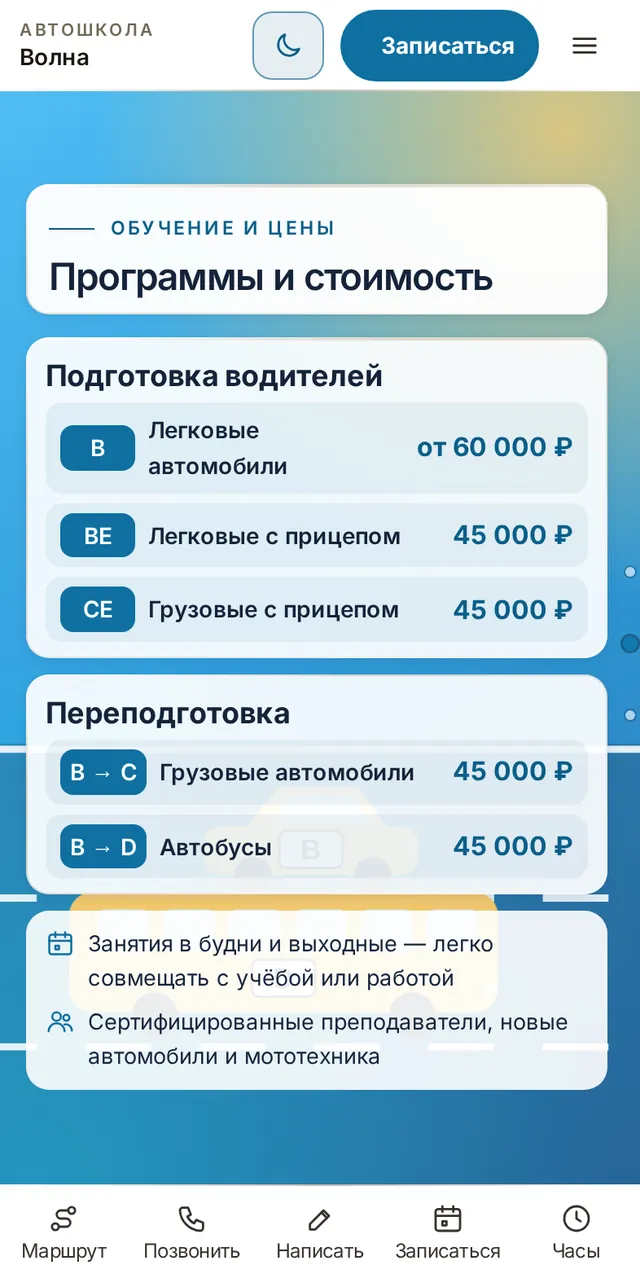
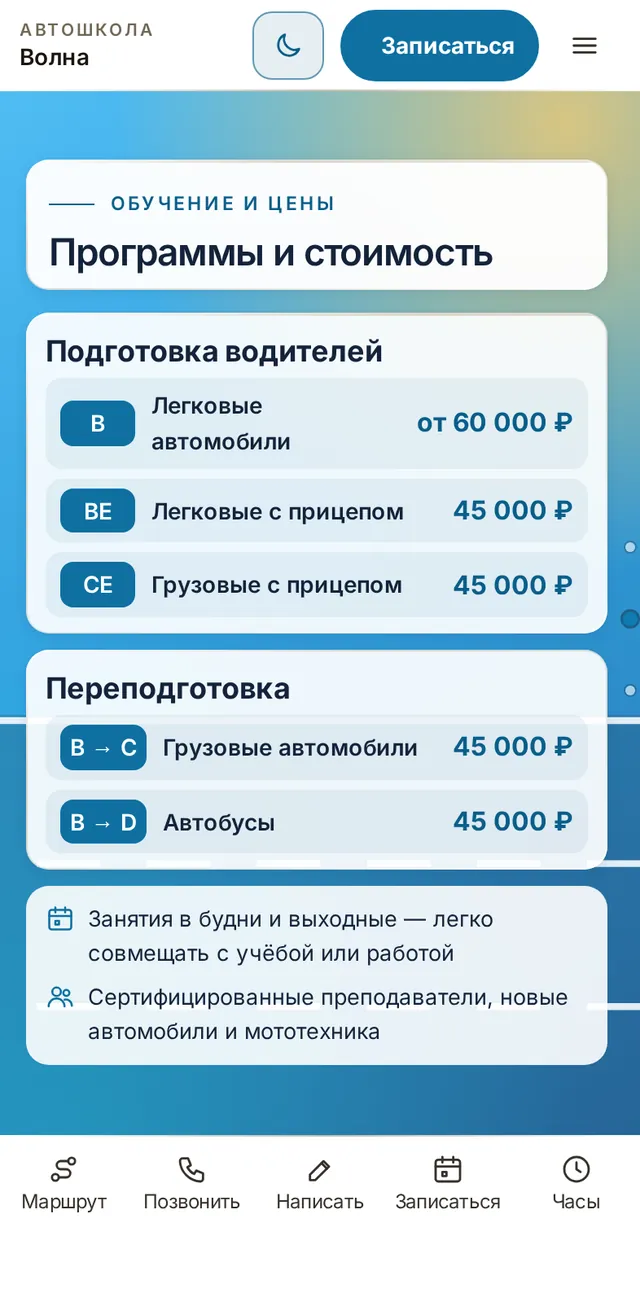
Текст не выходит за плашки: название первого экрана подгоняется под плашку, витрина показывает экраны целиком; цены на узких телефонах

diff --git a/vitrina/index.html b/vitrina/index.html
@@ -31,13 +31,14 @@ h1{text-wrap:balance;font-size:clamp(30px,3.4vw,48px);line-height:1.08;letter-sp
 .stage{position:relative;width:100%;aspect-ratio:16/11.2}
 .dv{position:absolute}
 .dv img{display:block;width:100%;height:100%;object-fit:cover;object-position:center top}
+.mon .scr img,.lap .scr img{height:auto}
 .mon{left:18%;top:0;width:68%}
-.mon .scr{aspect-ratio:16/9;padding:1.1%;background:#0e1116;border-radius:14px;box-shadow:0 30px 60px -20px rgba(20,35,58,.35)}
+.mon .scr{padding:1.1%;background:#0e1116;border-radius:14px;box-shadow:0 30px 60px -20px rgba(20,35,58,.35)}
 .mon .scr img{border-radius:6px}
 .mon .neck{width:14%;aspect-ratio:1/.95;margin:0 auto;background:linear-gradient(90deg,#c9d0d8,#eef1f4 45%,#c3cad2);clip-path:polygon(18% 0,82% 0,100% 100%,0 100%)}
 .mon .foot{width:36%;aspect-ratio:36/1.5;margin:-1px auto 0;border-radius:6px 6px 3px 3px;background:linear-gradient(180deg,#e9edf1,#b9c1ca);box-shadow:0 12px 20px -8px rgba(20,35,58,.4)}
 .lap{left:0;bottom:4%;width:46%}
-.lap .scr{aspect-ratio:16/10;padding:2.2% 2.2% 3%;background:#0b0d11;border-radius:16px 16px 4px 4px;position:relative;box-shadow:0 0 0 1px #2a2f37 inset}
+.lap .scr{padding:2.2% 2.2% 3%;background:#0b0d11;border-radius:16px 16px 4px 4px;position:relative;box-shadow:0 0 0 1px #2a2f37 inset}
 .lap .scr::before{content:"";position:absolute;top:1%;left:50%;width:.9%;aspect-ratio:1;border-radius:50%;background:#2b3442;transform:translateX(-50%)}
 .lap .scr img{border-radius:3px}
 .lap .base{position:relative;height:0;padding-bottom:3.2%;margin:0 -7%;background:linear-gradient(180deg,#e7ebef 0,#c8cfd7 60%,#9aa3ad 100%);border-radius:0 0 18px 18px/0 0 60% 60%;box-shadow:0 22px 30px -14px rgba(20,35,58,.45)}
@@ -80,7 +81,7 @@ h1{text-wrap:balance;font-size:clamp(30px,3.4vw,48px);line-height:1.08;letter-sp
   <div class="stage" id="stage" aria-label="Новый сайт на компьютере, ноутбуке и телефоне">
     <div class="dv mon"><div class="scr"><img src="img/monitor.webp?v=2" alt="" width="1600" height="900"></div><div class="neck"></div><div class="foot"></div></div>
     <div class="dv lap"><div class="scr"><img src="img/laptop.webp?v=2" alt="" width="1280" height="800"></div><div class="base"></div></div>
-    <div class="dv ph" id="ph"><div class="ss-phone z-phone" data-frame="pro" style="width: 340px; height: 714.953px; padding: 2.38318px; border-radius: 61.1682px; --ps: 0.794392523364486px;"><svg class="ss-phone__bands" width="100%" height="100%" aria-hidden="true"><defs><linearGradient id="ph-band" x1="0.2" y1="0" x2="0.8" y2="1"><stop offset="0" style="stop-color: var(--ss-phone-band-1);"></stop><stop offset="0.22" style="stop-color: var(--ss-phone-band-2);"></stop><stop offset="0.48" style="stop-color: var(--ss-phone-band-3);"></stop><stop offset="0.74" style="stop-color: var(--ss-phone-band-4);"></stop><stop offset="1" style="stop-color: var(--ss-phone-band-5);"></stop></linearGradient><linearGradient id="ph-clay" x1="0" y1="0" x2="0" y2="1"><stop offset="0" style="stop-color: var(--ss-phone-clay-top);"></stop><stop offset="1" style="stop-color: var(--ss-phone-clay-bottom);"></stop></linearGradient></defs><g transform="translate(10.327102803738317 10.327102803738317)" stroke-linejoin="round"><path d="M262.94 0.00L267.09 0.06L270.49 0.24L273.65 0.53L276.65 0.94L279.51 1.47L282.27 2.11L284.93 2.87L287.50 3.74L289.97 4.72L292.36 5.81L294.65 7.02L296.85 8.33L298.96 9.75L300.98 11.27L302.90 12.90L304.72 14.62L306.45 16.45L308.08 18.37L309.60 20.38L311.02 22.49L312.33 24.70L313.53 26.99L314.63 29.37L315.61 31.85L316.48 34.41L317.24 37.07L317.88 39.83L318.41 42.70L318.82 45.69L319.11 48.85L319.29 52.25L319.35 56.40L319.35 637.90L319.29 642.04L319.11 645.45L318.82 648.60L318.41 651.60L317.88 654.47L317.24 657.23L316.48 659.89L315.61 662.45L314.63 664.92L313.53 667.31L312.33 669.60L311.02 671.80L309.60 673.91L308.08 675.93L306.45 677.85L304.72 679.68L302.90 681.40L300.98 683.03L298.96 684.55L296.85 685.97L294.65 687.28L292.36 688.49L289.97 689.58L287.50 690.56L284.93 691.43L282.27 692.19L279.51 692.83L276.65 693.36L273.65 693.77L270.49 694.06L267.09 694.24L262.94 694.30L56.40 694.30L52.25 694.24L48.85 694.06L45.69 693.77L42.70 693.36L39.83 692.83L37.07 692.19L34.41 691.43L31.85 690.56L29.37 689.58L26.99 688.49L24.70 687.28L22.49 685.97L20.38 684.55L18.37 683.03L16.45 681.40L14.62 679.68L12.90 677.85L11.27 675.93L9.75 673.91L8.33 671.80L7.02 669.60L5.81 667.31L4.72 664.92L3.74 662.45L2.87 659.89L2.11 657.23L1.47 654.47L0.94 651.60L0.53 648.60L0.24 645.45L0.06 642.04L0.00 637.90L0.00 56.40L0.06 52.25L0.24 48.85L0.53 45.69L0.94 42.70L1.47 39.83L2.11 37.07L2.87 34.41L3.74 31.85L4.72 29.37L5.81 26.99L7.02 24.70L8.33 22.49L9.75 20.38L11.27 18.37L12.90 16.45L14.62 14.62L16.45 12.90L18.37 11.27L20.38 9.75L22.49 8.33L24.70 7.02L26.99 5.81L29.37 4.72L31.85 3.74L34.41 2.87L37.07 2.11L39.83 1.47L42.70 0.94L45.69 0.53L48.85 0.24L52.25 0.06L56.40 0.00Z" fill="none" stroke-width="20.654205607476634" stroke="url(#ph-band)"></path><path d="M262.94 0.00L267.09 0.06L270.49 0.24L273.65 0.53L276.65 0.94L279.51 1.47L282.27 2.11L284.93 2.87L287.50 3.74L289.97 4.72L292.36 5.81L294.65 7.02L296.85 8.33L298.96 9.75L300.98 11.27L302.90 12.90L304.72 14.62L306.45 16.45L308.08 18.37L309.60 20.38L311.02 22.49L312.33 24.70L313.53 26.99L314.63 29.37L315.61 31.85L316.48 34.41L317.24 37.07L317.88 39.83L318.41 42.70L318.82 45.69L319.11 48.85L319.29 52.25L319.35 56.40L319.35 637.90L319.29 642.04L319.11 645.45L318.82 648.60L318.41 651.60L317.88 654.47L317.24 657.23L316.48 659.89L315.61 662.45L314.63 664.92L313.53 667.31L312.33 669.60L311.02 671.80L309.60 673.91L308.08 675.93L306.45 677.85L304.72 679.68L302.90 681.40L300.98 683.03L298.96 684.55L296.85 685.97L294.65 687.28L292.36 688.49L289.97 689.58L287.50 690.56L284.93 691.43L282.27 692.19L279.51 692.83L276.65 693.36L273.65 693.77L270.49 694.06L267.09 694.24L262.94 694.30L56.40 694.30L52.25 694.24L48.85 694.06L45.69 693.77L42.70 693.36L39.83 692.83L37.07 692.19L34.41 691.43L31.85 690.56L29.37 689.58L26.99 688.49L24.70 687.28L22.49 685.97L20.38 684.55L18.37 683.03L16.45 681.40L14.62 679.68L12.90 677.85L11.27 675.93L9.75 673.91L8.33 671.80L7.02 669.60L5.81 667.31L4.72 664.92L3.74 662.45L2.87 659.89L2.11 657.23L1.47 654.47L0.94 651.60L0.53 648.60L0.24 645.45L0.06 642.04L0.00 637.90L0.00 56.40L0.06 52.25L0.24 48.85L0.53 45.69L0.94 42.70L1.47 39.83L2.11 37.07L2.87 34.41L3.74 31.85L4.72 29.37L5.81 26.99L7.02 24.70L8.33 22.49L9.75 20.38L11.27 18.37L12.90 16.45L14.62 14.62L16.45 12.90L18.37 11.27L20.38 9.75L22.49 8.33L24.70 7.02L26.99 5.81L29.37 4.72L31.85 3.74L34.41 2.87L37.07 2.11L39.83 1.47L42.70 0.94L45.69 0.53L48.85 0.24L52.25 0.06L56.40 0.00Z" fill="none" stroke-width="15.88785046728972" style="stroke: var(--ss-phone-rim);"></path><path d="M262.94 0.00L267.09 0.06L270.49 0.24L273.65 0.53L276.65 0.94L279.51 1.47L282.27 2.11L284.93 2.87L287.50 3.74L289.97 4.72L292.36 5.81L294.65 7.02L296.85 8.33L298.96 9.75L300.98 11.27L302.90 12.90L304.72 14.62L306.45 16.45L308.08 18.37L309.60 20.38L311.02 22.49L312.33 24.70L313.53 26.99L314.63 29.37L315.61 31.85L316.48 34.41L317.24 37.07L317.88 39.83L318.41 42.70L318.82 45.69L319.11 48.85L319.29 52.25L319.35 56.40L319.35 637.90L319.29 642.04L319.11 645.45L318.82 648.60L318.41 651.60L317.88 654.47L317.24 657.23L316.48 659.89L315.61 662.45L314.63 664.92L313.53 667.31L312.33 669.60L311.02 671.80L309.60 673.91L308.08 675.93L306.45 677.85L304.72 679.68L302.90 681.40L300.98 683.03L298.96 684.55L296.85 685.97L294.65 687.28L292.36 688.49L289.97 689.58L287.50 690.56L284.93 691.43L282.27 692.19L279.51 692.83L276.65 693.36L273.65 693.77L270.49 694.06L267.09 694.24L262.94 694.30L56.40 694.30L52.25 694.24L48.85 694.06L45.69 693.77L42.70 693.36L39.83 692.83L37.07 692.19L34.41 691.43L31.85 690.56L29.37 689.58L26.99 688.49L24.70 687.28L22.49 685.97L20.38 684.55L18.37 683.03L16.45 681.40L14.62 679.68L12.90 677.85L11.27 675.93L9.75 673.91L8.33 671.80L7.02 669.60L5.81 667.31L4.72 664.92L3.74 662.45L2.87 659.89L2.11 657.23L1.47 654.47L0.94 651.60L0.53 648.60L0.24 645.45L0.06 642.04L0.00 637.90L0.00 56.40L0.06 52.25L0.24 48.85L0.53 45.69L0.94 42.70L1.47 39.83L2.11 37.07L2.87 34.41L3.74 31.85L4.72 29.37L5.81 26.99L7.02 24.70L8.33 22.49L9.75 20.38L11.27 18.37L12.90 16.45L14.62 14.62L16.45 12.90L18.37 11.27L20.38 9.75L22.49 8.33L24.70 7.02L26.99 5.81L29.37 4.72L31.85 3.74L34.41 2.87L37.07 2.11L39.83 1.47L42.70 0.94L45.69 0.53L48.85 0.24L52.25 0.06L56.40 0.00Z" fill="none" stroke-width="14.69626168224299" style="stroke: var(--ss-phone-glass);"></path></g></svg><div class="ss-phone__glass" style="padding: 7.94393px; border-radius: 58.785px;"><div class="ss-phone__window" style="width: 319.346px; height: 694.299px; clip-path: path(&quot;M 262.94 0 L 267.09 0.06 L 270.49 0.24 L 273.65 0.53 L 276.65 0.94 L 279.51 1.47 L 282.27 2.11 L 284.93 2.87 L 287.5 3.74 L 289.97 4.72 L 292.36 5.81 L 294.65 7.02 L 296.85 8.33 L 298.96 9.75 L 300.98 11.27 L 302.9 12.9 L 304.72 14.62 L 306.45 16.45 L 308.08 18.37 L 309.6 20.38 L 311.02 22.49 L 312.33 24.7 L 313.53 26.99 L 314.63 29.37 L 315.61 31.85 L 316.48 34.41 L 317.24 37.07 L 317.88 39.83 L 318.41 42.7 L 318.82 45.69 L 319.11 48.85 L 319.29 52.25 L 319.35 56.4 L 319.35 637.9 L 319.29 642.04 L 319.11 645.45 L 318.82 648.6 L 318.41 651.6 L 317.88 654.47 L 317.24 657.23 L 316.48 659.89 L 315.61 662.45 L 314.63 664.92 L 313.53 667.31 L 312.33 669.6 L 311.02 671.8 L 309.6 673.91 L 308.08 675.93 L 306.45 677.85 L 304.72 679.68 L 302.9 681.4 L 300.98 683.03 L 298.96 684.55 L 296.85 685.97 L 294.65 687.28 L 292.36 688.49 L 289.97 689.58 L 287.5 690.56 L 284.93 691.43 L 282.27 692.19 L 279.51 692.83 L 276.65 693.36 L 273.65 693.77 L 270.49 694.06 L 267.09 694.24 L 262.94 694.3 L 56.4 694.3 L 52.25 694.24 L 48.85 694.06 L 45.69 693.77 L 42.7 693.36 L 39.83 692.83 L 37.07 692.19 L 34.41 691.43 L 31.85 690.56 L 29.37 689.58 L 26.99 688.49 L 24.7 687.28 L 22.49 685.97 L 20.38 684.55 L 18.37 683.03 L 16.45 681.4 L 14.62 679.68 L 12.9 677.85 L 11.27 675.93 L 9.75 673.91 L 8.33 671.8 L 7.02 669.6 L 5.81 667.31 L 4.72 664.92 L 3.74 662.45 L 2.87 659.89 L 2.11 657.23 L 1.47 654.47 L 0.94 651.6 L 0.53 648.6 L 0.24 645.45 L 0.06 642.04 L 0 637.9 L 0 56.4 L 0.06 52.25 L 0.24 48.85 L 0.53 45.69 L 0.94 42.7 L 1.47 39.83 L 2.11 37.07 L 2.87 34.41 L 3.74 31.85 L 4.72 29.37 L 5.81 26.99 L 7.02 24.7 L 8.33 22.49 L 9.75 20.38 L 11.27 18.37 L 12.9 16.45 L 14.62 14.62 L 16.45 12.9 L 18.37 11.27 L 20.38 9.75 L 22.49 8.33 L 24.7 7.02 L 26.99 5.81 L 29.37 4.72 L 31.85 3.74 L 34.41 2.87 L 37.07 2.11 L 39.83 1.47 L 42.7 0.94 L 45.69 0.53 L 48.85 0.24 L 52.25 0.06 L 56.4 0 Z&quot;);"><div class="ss-phone__screen" style="width: 402px; height: 874px; transform: scale(0.794393); --ss-screen-r: 64px;"><div class="ss-phone__status"><span class="ss-phone__time">10:02</span><span class="ss-phone__glyphs"><svg viewBox="0 0 20.33 13.67" width="20.33" height="13.67" class="ss-phone__glyph ss-phone__signal"><rect x="0" y="7.34" width="3.333" height="6.33" rx="1.667" fill="currentColor"></rect><rect x="5.667" y="5" width="3.333" height="8.67" rx="1.667" fill="currentColor"></rect><rect x="11.334" y="2.67" width="3.333" height="11" rx="1.667" fill="currentColor"></rect><rect x="17.000999999999998" y="0" width="3.333" height="13.67" rx="1.667" fill="currentColor"></rect></svg><svg viewBox="0 0 19.33 14.33" width="19.33" height="14.33" class="ss-phone__glyph ss-phone__wifi"><path fill-rule="evenodd" fill="currentColor" d="M0.415933 5.54283C0.902185 6.04412 1.66017 5.95818 2.27513 5.41393C4.30595 3.58064 6.83731 2.63535 9.66901 2.63535C12.5007 2.63535 15.0464 3.60928 17.0629 5.41393C17.6636 5.97251 18.4215 6.0298 18.9221 5.54283C19.4226 5.02722 19.4942 4.2538 18.9793 3.70954C16.8341 1.51819 13.3302 0 9.66901 0C6.00783 0 2.48965 1.53251 0.358727 3.72387C-0.156127 4.2538 -0.0989213 5.02722 0.415933 5.55715L0.415933 5.54283ZM3.94841 9.13779C4.50617 9.68205 5.22124 9.62476 5.85051 9.10915C6.88022 8.29276 8.25316 7.73418 9.66901 7.7485C11.0706 7.7485 12.4435 8.29276 13.4875 9.12347C14.1168 9.63908 14.8605 9.66773 15.4039 9.12347C15.9331 8.57921 16.0189 7.7485 15.4611 7.23289C14.0739 5.98683 11.9859 5.11315 9.68332 5.11315C7.38077 5.11315 5.27845 5.98683 3.9055 7.23289C3.41925 7.69121 3.31914 8.47896 3.96271 9.13779L3.94841 9.13779ZM8.72511 13.8929C9.34008 14.4801 9.98365 14.4801 10.5986 13.8929L11.757 12.7757C12.372 12.1742 12.5007 11.4151 11.7999 10.8995C11.2136 10.4841 10.4699 10.212 9.66901 10.212C8.86813 10.212 8.11015 10.4841 7.53809 10.9138C6.83731 11.4151 6.98033 12.1885 7.59529 12.7757L8.73942 13.8929L8.72511 13.8929Z"></path></svg><svg viewBox="0 0 29.33 13.67" width="29.33" height="13.67" class="ss-phone__glyph ss-phone__battery"><path fill="currentColor" d="M0 6.4C0 4.15979 0 3.03969 0.435974 2.18404C0.819467 1.43139 1.43139 0.819467 2.18404 0.435974C3.03969 0 4.15979 0 6.4 0L19.933 0C22.1732 0 23.2933 0 24.149 0.435974C24.9016 0.819467 25.5135 1.43139 25.897 2.18404C26.333 3.03969 26.333 4.15979 26.333 6.4L26.333 7.26666C26.333 9.50687 26.333 10.627 25.897 11.4826C25.5135 12.2353 24.9016 12.8472 24.149 13.2307C23.2933 13.6667 22.1732 13.6667 19.933 13.6667L6.4 13.6667C4.15979 13.6667 3.03969 13.6667 2.18404 13.2307C1.43139 12.8472 0.819467 12.2353 0.435974 11.4826C0 10.627 0 9.50687 0 7.26666L0 6.4Z"></path><path fill-rule="evenodd" fill="currentColor" transform="translate(27.33 4.33)" d="M0 0L0 5C0.601505 4.8625 2 3.75 2 2.5C2 1.25 0.601505 0.1375 0 0Z"></path></svg></span></div><span class="ss-phone__island"></span><div class="ss-phone__content" data-status="true"><img class="ph-shot" src="img/phone.webp?v=2" alt="Новый сайт автошколы «Волна» на телефоне" width="393" height="790"></div><span class="ss-phone__home"></span></div></div></div></div></div>
+    <div class="dv ph" id="ph"><div class="ss-phone z-phone" data-frame="pro" style="width: 340px; height: 714.953px; padding: 2.38318px; border-radius: 61.1682px; --ps: 0.794392523364486px;"><svg class="ss-phone__bands" width="100%" height="100%" aria-hidden="true"><defs><linearGradient id="ph-band" x1="0.2" y1="0" x2="0.8" y2="1"><stop offset="0" style="stop-color: var(--ss-phone-band-1);"></stop><stop offset="0.22" style="stop-color: var(--ss-phone-band-2);"></stop><stop offset="0.48" style="stop-color: var(--ss-phone-band-3);"></stop><stop offset="0.74" style="stop-color: var(--ss-phone-band-4);"></stop><stop offset="1" style="stop-color: var(--ss-phone-band-5);"></stop></linearGradient><linearGradient id="ph-clay" x1="0" y1="0" x2="0" y2="1"><stop offset="0" style="stop-color: var(--ss-phone-clay-top);"></stop><stop offset="1" style="stop-color: var(--ss-phone-clay-bottom);"></stop></linearGradient></defs><g transform="translate(10.327102803738317 10.327102803738317)" stroke-linejoin="round"><path d="M262.94 0.00L267.09 0.06L270.49 0.24L273.65 0.53L276.65 0.94L279.51 1.47L282.27 2.11L284.93 2.87L287.50 3.74L289.97 4.72L292.36 5.81L294.65 7.02L296.85 8.33L298.96 9.75L300.98 11.27L302.90 12.90L304.72 14.62L306.45 16.45L308.08 18.37L309.60 20.38L311.02 22.49L312.33 24.70L313.53 26.99L314.63 29.37L315.61 31.85L316.48 34.41L317.24 37.07L317.88 39.83L318.41 42.70L318.82 45.69L319.11 48.85L319.29 52.25L319.35 56.40L319.35 637.90L319.29 642.04L319.11 645.45L318.82 648.60L318.41 651.60L317.88 654.47L317.24 657.23L316.48 659.89L315.61 662.45L314.63 664.92L313.53 667.31L312.33 669.60L311.02 671.80L309.60 673.91L308.08 675.93L306.45 677.85L304.72 679.68L302.90 681.40L300.98 683.03L298.96 684.55L296.85 685.97L294.65 687.28L292.36 688.49L289.97 689.58L287.50 690.56L284.93 691.43L282.27 692.19L279.51 692.83L276.65 693.36L273.65 693.77L270.49 694.06L267.09 694.24L262.94 694.30L56.40 694.30L52.25 694.24L48.85 694.06L45.69 693.77L42.70 693.36L39.83 692.83L37.07 692.19L34.41 691.43L31.85 690.56L29.37 689.58L26.99 688.49L24.70 687.28L22.49 685.97L20.38 684.55L18.37 683.03L16.45 681.40L14.62 679.68L12.90 677.85L11.27 675.93L9.75 673.91L8.33 671.80L7.02 669.60L5.81 667.31L4.72 664.92L3.74 662.45L2.87 659.89L2.11 657.23L1.47 654.47L0.94 651.60L0.53 648.60L0.24 645.45L0.06 642.04L0.00 637.90L0.00 56.40L0.06 52.25L0.24 48.85L0.53 45.69L0.94 42.70L1.47 39.83L2.11 37.07L2.87 34.41L3.74 31.85L4.72 29.37L5.81 26.99L7.02 24.70L8.33 22.49L9.75 20.38L11.27 18.37L12.90 16.45L14.62 14.62L16.45 12.90L18.37 11.27L20.38 9.75L22.49 8.33L24.70 7.02L26.99 5.81L29.37 4.72L31.85 3.74L34.41 2.87L37.07 2.11L39.83 1.47L42.70 0.94L45.69 0.53L48.85 0.24L52.25 0.06L56.40 0.00Z" fill="none" stroke-width="20.654205607476634" stroke="url(#ph-band)"></path><path d="M262.94 0.00L267.09 0.06L270.49 0.24L273.65 0.53L276.65 0.94L279.51 1.47L282.27 2.11L284.93 2.87L287.50 3.74L289.97 4.72L292.36 5.81L294.65 7.02L296.85 8.33L298.96 9.75L300.98 11.27L302.90 12.90L304.72 14.62L306.45 16.45L308.08 18.37L309.60 20.38L311.02 22.49L312.33 24.70L313.53 26.99L314.63 29.37L315.61 31.85L316.48 34.41L317.24 37.07L317.88 39.83L318.41 42.70L318.82 45.69L319.11 48.85L319.29 52.25L319.35 56.40L319.35 637.90L319.29 642.04L319.11 645.45L318.82 648.60L318.41 651.60L317.88 654.47L317.24 657.23L316.48 659.89L315.61 662.45L314.63 664.92L313.53 667.31L312.33 669.60L311.02 671.80L309.60 673.91L308.08 675.93L306.45 677.85L304.72 679.68L302.90 681.40L300.98 683.03L298.96 684.55L296.85 685.97L294.65 687.28L292.36 688.49L289.97 689.58L287.50 690.56L284.93 691.43L282.27 692.19L279.51 692.83L276.65 693.36L273.65 693.77L270.49 694.06L267.09 694.24L262.94 694.30L56.40 694.30L52.25 694.24L48.85 694.06L45.69 693.77L42.70 693.36L39.83 692.83L37.07 692.19L34.41 691.43L31.85 690.56L29.37 689.58L26.99 688.49L24.70 687.28L22.49 685.97L20.38 684.55L18.37 683.03L16.45 681.40L14.62 679.68L12.90 677.85L11.27 675.93L9.75 673.91L8.33 671.80L7.02 669.60L5.81 667.31L4.72 664.92L3.74 662.45L2.87 659.89L2.11 657.23L1.47 654.47L0.94 651.60L0.53 648.60L0.24 645.45L0.06 642.04L0.00 637.90L0.00 56.40L0.06 52.25L0.24 48.85L0.53 45.69L0.94 42.70L1.47 39.83L2.11 37.07L2.87 34.41L3.74 31.85L4.72 29.37L5.81 26.99L7.02 24.70L8.33 22.49L9.75 20.38L11.27 18.37L12.90 16.45L14.62 14.62L16.45 12.90L18.37 11.27L20.38 9.75L22.49 8.33L24.70 7.02L26.99 5.81L29.37 4.72L31.85 3.74L34.41 2.87L37.07 2.11L39.83 1.47L42.70 0.94L45.69 0.53L48.85 0.24L52.25 0.06L56.40 0.00Z" fill="none" stroke-width="15.88785046728972" style="stroke: var(--ss-phone-rim);"></path><path d="M262.94 0.00L267.09 0.06L270.49 0.24L273.65 0.53L276.65 0.94L279.51 1.47L282.27 2.11L284.93 2.87L287.50 3.74L289.97 4.72L292.36 5.81L294.65 7.02L296.85 8.33L298.96 9.75L300.98 11.27L302.90 12.90L304.72 14.62L306.45 16.45L308.08 18.37L309.60 20.38L311.02 22.49L312.33 24.70L313.53 26.99L314.63 29.37L315.61 31.85L316.48 34.41L317.24 37.07L317.88 39.83L318.41 42.70L318.82 45.69L319.11 48.85L319.29 52.25L319.35 56.40L319.35 637.90L319.29 642.04L319.11 645.45L318.82 648.60L318.41 651.60L317.88 654.47L317.24 657.23L316.48 659.89L315.61 662.45L314.63 664.92L313.53 667.31L312.33 669.60L311.02 671.80L309.60 673.91L308.08 675.93L306.45 677.85L304.72 679.68L302.90 681.40L300.98 683.03L298.96 684.55L296.85 685.97L294.65 687.28L292.36 688.49L289.97 689.58L287.50 690.56L284.93 691.43L282.27 692.19L279.51 692.83L276.65 693.36L273.65 693.77L270.49 694.06L267.09 694.24L262.94 694.30L56.40 694.30L52.25 694.24L48.85 694.06L45.69 693.77L42.70 693.36L39.83 692.83L37.07 692.19L34.41 691.43L31.85 690.56L29.37 689.58L26.99 688.49L24.70 687.28L22.49 685.97L20.38 684.55L18.37 683.03L16.45 681.40L14.62 679.68L12.90 677.85L11.27 675.93L9.75 673.91L8.33 671.80L7.02 669.60L5.81 667.31L4.72 664.92L3.74 662.45L2.87 659.89L2.11 657.23L1.47 654.47L0.94 651.60L0.53 648.60L0.24 645.45L0.06 642.04L0.00 637.90L0.00 56.40L0.06 52.25L0.24 48.85L0.53 45.69L0.94 42.70L1.47 39.83L2.11 37.07L2.87 34.41L3.74 31.85L4.72 29.37L5.81 26.99L7.02 24.70L8.33 22.49L9.75 20.38L11.27 18.37L12.90 16.45L14.62 14.62L16.45 12.90L18.37 11.27L20.38 9.75L22.49 8.33L24.70 7.02L26.99 5.81L29.37 4.72L31.85 3.74L34.41 2.87L37.07 2.11L39.83 1.47L42.70 0.94L45.69 0.53L48.85 0.24L52.25 0.06L56.40 0.00Z" fill="none" stroke-width="14.69626168224299" style="stroke: var(--ss-phone-glass);"></path></g></svg><div class="ss-phone__glass" style="padding: 7.94393px; border-radius: 58.785px;"><div class="ss-phone__window" style="width: 319.346px; height: 694.299px; clip-path: path(&quot;M 262.94 0 L 267.09 0.06 L 270.49 0.24 L 273.65 0.53 L 276.65 0.94 L 279.51 1.47 L 282.27 2.11 L 284.93 2.87 L 287.5 3.74 L 289.97 4.72 L 292.36 5.81 L 294.65 7.02 L 296.85 8.33 L 298.96 9.75 L 300.98 11.27 L 302.9 12.9 L 304.72 14.62 L 306.45 16.45 L 308.08 18.37 L 309.6 20.38 L 311.02 22.49 L 312.33 24.7 L 313.53 26.99 L 314.63 29.37 L 315.61 31.85 L 316.48 34.41 L 317.24 37.07 L 317.88 39.83 L 318.41 42.7 L 318.82 45.69 L 319.11 48.85 L 319.29 52.25 L 319.35 56.4 L 319.35 637.9 L 319.29 642.04 L 319.11 645.45 L 318.82 648.6 L 318.41 651.6 L 317.88 654.47 L 317.24 657.23 L 316.48 659.89 L 315.61 662.45 L 314.63 664.92 L 313.53 667.31 L 312.33 669.6 L 311.02 671.8 L 309.6 673.91 L 308.08 675.93 L 306.45 677.85 L 304.72 679.68 L 302.9 681.4 L 300.98 683.03 L 298.96 684.55 L 296.85 685.97 L 294.65 687.28 L 292.36 688.49 L 289.97 689.58 L 287.5 690.56 L 284.93 691.43 L 282.27 692.19 L 279.51 692.83 L 276.65 693.36 L 273.65 693.77 L 270.49 694.06 L 267.09 694.24 L 262.94 694.3 L 56.4 694.3 L 52.25 694.24 L 48.85 694.06 L 45.69 693.77 L 42.7 693.36 L 39.83 692.83 L 37.07 692.19 L 34.41 691.43 L 31.85 690.56 L 29.37 689.58 L 26.99 688.49 L 24.7 687.28 L 22.49 685.97 L 20.38 684.55 L 18.37 683.03 L 16.45 681.4 L 14.62 679.68 L 12.9 677.85 L 11.27 675.93 L 9.75 673.91 L 8.33 671.8 L 7.02 669.6 L 5.81 667.31 L 4.72 664.92 L 3.74 662.45 L 2.87 659.89 L 2.11 657.23 L 1.47 654.47 L 0.94 651.6 L 0.53 648.6 L 0.24 645.45 L 0.06 642.04 L 0 637.9 L 0 56.4 L 0.06 52.25 L 0.24 48.85 L 0.53 45.69 L 0.94 42.7 L 1.47 39.83 L 2.11 37.07 L 2.87 34.41 L 3.74 31.85 L 4.72 29.37 L 5.81 26.99 L 7.02 24.7 L 8.33 22.49 L 9.75 20.38 L 11.27 18.37 L 12.9 16.45 L 14.62 14.62 L 16.45 12.9 L 18.37 11.27 L 20.38 9.75 L 22.49 8.33 L 24.7 7.02 L 26.99 5.81 L 29.37 4.72 L 31.85 3.74 L 34.41 2.87 L 37.07 2.11 L 39.83 1.47 L 42.7 0.94 L 45.69 0.53 L 48.85 0.24 L 52.25 0.06 L 56.4 0 Z&quot;);"><div class="ss-phone__screen" style="width: 402px; height: 874px; transform: scale(0.794393); --ss-screen-r: 64px;"><div class="ss-phone__status"><span class="ss-phone__time">10:02</span><span class="ss-phone__glyphs"><svg viewBox="0 0 20.33 13.67" width="20.33" height="13.67" class="ss-phone__glyph ss-phone__signal"><rect x="0" y="7.34" width="3.333" height="6.33" rx="1.667" fill="currentColor"></rect><rect x="5.667" y="5" width="3.333" height="8.67" rx="1.667" fill="currentColor"></rect><rect x="11.334" y="2.67" width="3.333" height="11" rx="1.667" fill="currentColor"></rect><rect x="17.000999999999998" y="0" width="3.333" height="13.67" rx="1.667" fill="currentColor"></rect></svg><svg viewBox="0 0 19.33 14.33" width="19.33" height="14.33" class="ss-phone__glyph ss-phone__wifi"><path fill-rule="evenodd" fill="currentColor" d="M0.415933 5.54283C0.902185 6.04412 1.66017 5.95818 2.27513 5.41393C4.30595 3.58064 6.83731 2.63535 9.66901 2.63535C12.5007 2.63535 15.0464 3.60928 17.0629 5.41393C17.6636 5.97251 18.4215 6.0298 18.9221 5.54283C19.4226 5.02722 19.4942 4.2538 18.9793 3.70954C16.8341 1.51819 13.3302 0 9.66901 0C6.00783 0 2.48965 1.53251 0.358727 3.72387C-0.156127 4.2538 -0.0989213 5.02722 0.415933 5.55715L0.415933 5.54283ZM3.94841 9.13779C4.50617 9.68205 5.22124 9.62476 5.85051 9.10915C6.88022 8.29276 8.25316 7.73418 9.66901 7.7485C11.0706 7.7485 12.4435 8.29276 13.4875 9.12347C14.1168 9.63908 14.8605 9.66773 15.4039 9.12347C15.9331 8.57921 16.0189 7.7485 15.4611 7.23289C14.0739 5.98683 11.9859 5.11315 9.68332 5.11315C7.38077 5.11315 5.27845 5.98683 3.9055 7.23289C3.41925 7.69121 3.31914 8.47896 3.96271 9.13779L3.94841 9.13779ZM8.72511 13.8929C9.34008 14.4801 9.98365 14.4801 10.5986 13.8929L11.757 12.7757C12.372 12.1742 12.5007 11.4151 11.7999 10.8995C11.2136 10.4841 10.4699 10.212 9.66901 10.212C8.86813 10.212 8.11015 10.4841 7.53809 10.9138C6.83731 11.4151 6.98033 12.1885 7.59529 12.7757L8.73942 13.8929L8.72511 13.8929Z"></path></svg><svg viewBox="0 0 29.33 13.67" width="29.33" height="13.67" class="ss-phone__glyph ss-phone__battery"><path fill="currentColor" d="M0 6.4C0 4.15979 0 3.03969 0.435974 2.18404C0.819467 1.43139 1.43139 0.819467 2.18404 0.435974C3.03969 0 4.15979 0 6.4 0L19.933 0C22.1732 0 23.2933 0 24.149 0.435974C24.9016 0.819467 25.5135 1.43139 25.897 2.18404C26.333 3.03969 26.333 4.15979 26.333 6.4L26.333 7.26666C26.333 9.50687 26.333 10.627 25.897 11.4826C25.5135 12.2353 24.9016 12.8472 24.149 13.2307C23.2933 13.6667 22.1732 13.6667 19.933 13.6667L6.4 13.6667C4.15979 13.6667 3.03969 13.6667 2.18404 13.2307C1.43139 12.8472 0.819467 12.2353 0.435974 11.4826C0 10.627 0 9.50687 0 7.26666L0 6.4Z"></path><path fill-rule="evenodd" fill="currentColor" transform="translate(27.33 4.33)" d="M0 0L0 5C0.601505 4.8625 2 3.75 2 2.5C2 1.25 0.601505 0.1375 0 0Z"></path></svg></span></div><span class="ss-phone__island"></span><div class="ss-phone__content" data-status="true"><img class="ph-shot" src="img/phone.webp?v=2" alt="Новый сайт автошколы «Волна» на телефоне" width="393" height="794"></div><span class="ss-phone__home"></span></div></div></div></div></div>
   </div>
 </main>
 <p class="note">Сайт сделан веб-агентством «Всети» по материалам открытого сайта автошколы.</p>

diff --git a/js/fit-title.js b/js/fit-title.js
@@ -1,0 +1,32 @@
+/* Название школы на первом экране всегда целиком внутри плашки (правило Сергея 13.11).
+   Слово набрано в одну строку (.hw, white-space:nowrap); если при заданном в CSS размере оно шире
+   строки заголовка, шрифт уменьшается ровно до ширины. Пересчёт — после загрузки шрифтов, при смене
+   ширины плашки, темы, контраста и размера шрифта (А−/А+). Меряется копия слова без анимации букв. */
+(function () {
+  'use strict';
+  var word = document.getElementById('heroWord');
+  if (!word || !word.parentElement) return;
+  var line = word.parentElement, raf = 0;
+  function fit() {
+    raf = 0;
+    word.style.fontSize = '';
+    var avail = line.clientWidth;
+    if (!avail) return;
+    var probe = document.createElement('span');
+    probe.className = word.className;
+    probe.textContent = word.getAttribute('aria-label') || word.textContent;
+    probe.setAttribute('aria-hidden', 'true');
+    probe.style.cssText = 'position:absolute;left:0;top:0;visibility:hidden;white-space:nowrap;display:inline-block;animation:none;opacity:0;pointer-events:none';
+    line.appendChild(probe);
+    var need = probe.getBoundingClientRect().width, size = parseFloat(getComputedStyle(probe).fontSize);
+    line.removeChild(probe);
+    if (need > avail && size) word.style.fontSize = Math.floor(size * avail / need * 0.97 * 10) / 10 + 'px';
+  }
+  function later() { if (!raf) raf = requestAnimationFrame(fit); }
+  fit();
+  if (document.fonts && document.fonts.ready) document.fonts.ready.then(later);
+  window.addEventListener('load', later);
+  window.addEventListener('resize', later);
+  if (window.ResizeObserver) new ResizeObserver(later).observe(line);
+  if (window.MutationObserver) new MutationObserver(later).observe(document.documentElement, { attributes: true, attributeFilter: ['style', 'class', 'data-theme', 'data-hc'] });
+})();

diff --git a/css/volna.css b/css/volna.css
@@ -193,3 +193,8 @@ html[data-theme="dark"] .vls-lbl{fill:rgba(255,255,255,.8)}
 /* версия для слабовидящих: без живых фонов и анимаций */
 html[data-hc="1"] .a4bg{display:none!important}
 html[data-hc="1"] *{animation:none!important;transition:none!important}
+/* текст не выходит за плашки (Сергей 13.11): строка программы переносит цену вниз, а не распирает карточку */
+@media (max-width:767px){.vl-progs,.vl-contacts{grid-template-columns:minmax(0,1fr)}}
+.vl-pl li{display:flex;flex-wrap:wrap;align-items:center;column-gap:10px;row-gap:2px}
+.vl-pl li>span:not(.vl-cat){flex:1 1 7em;min-width:0;overflow-wrap:break-word}
+.vl-pl li b{margin-left:auto}

diff --git a/index.html b/index.html
@@ -1874,6 +1874,7 @@ html[data-hc="1"] :focus-visible{outline:3px solid #ffe14d;outline-offset:2px}
 <script src="js/clouds.js" defer></script>
 <script src="js/gulls.js" defer></script>
 <script src="js/title-b.js" defer></script>
+<script src="js/fit-title.js" defer></script>
 <script src="js/diag.js?v=1"></script>
 </body>
 </html>
